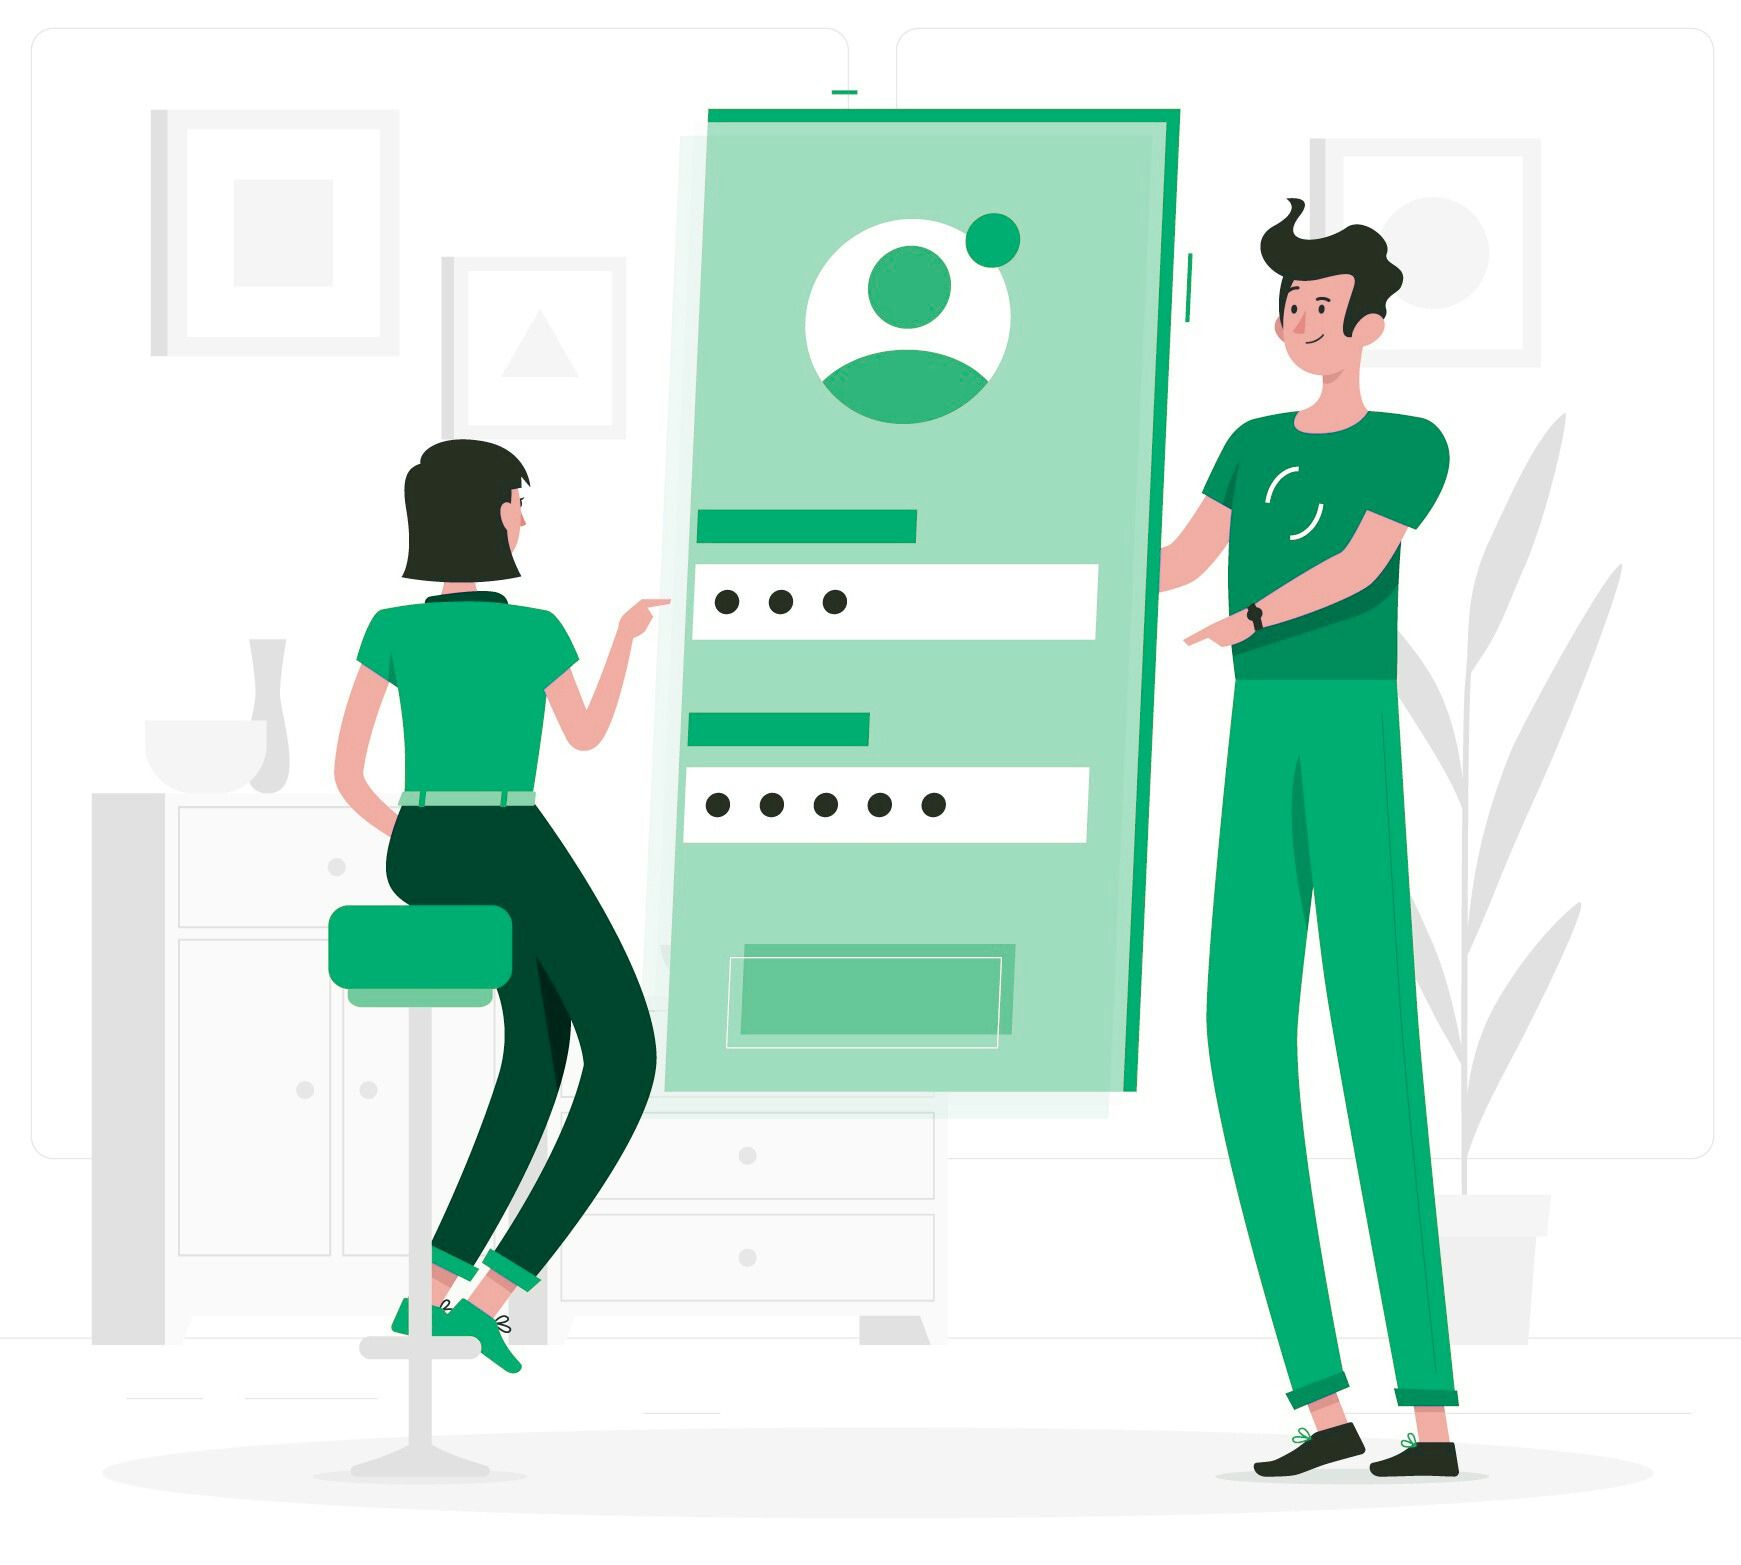
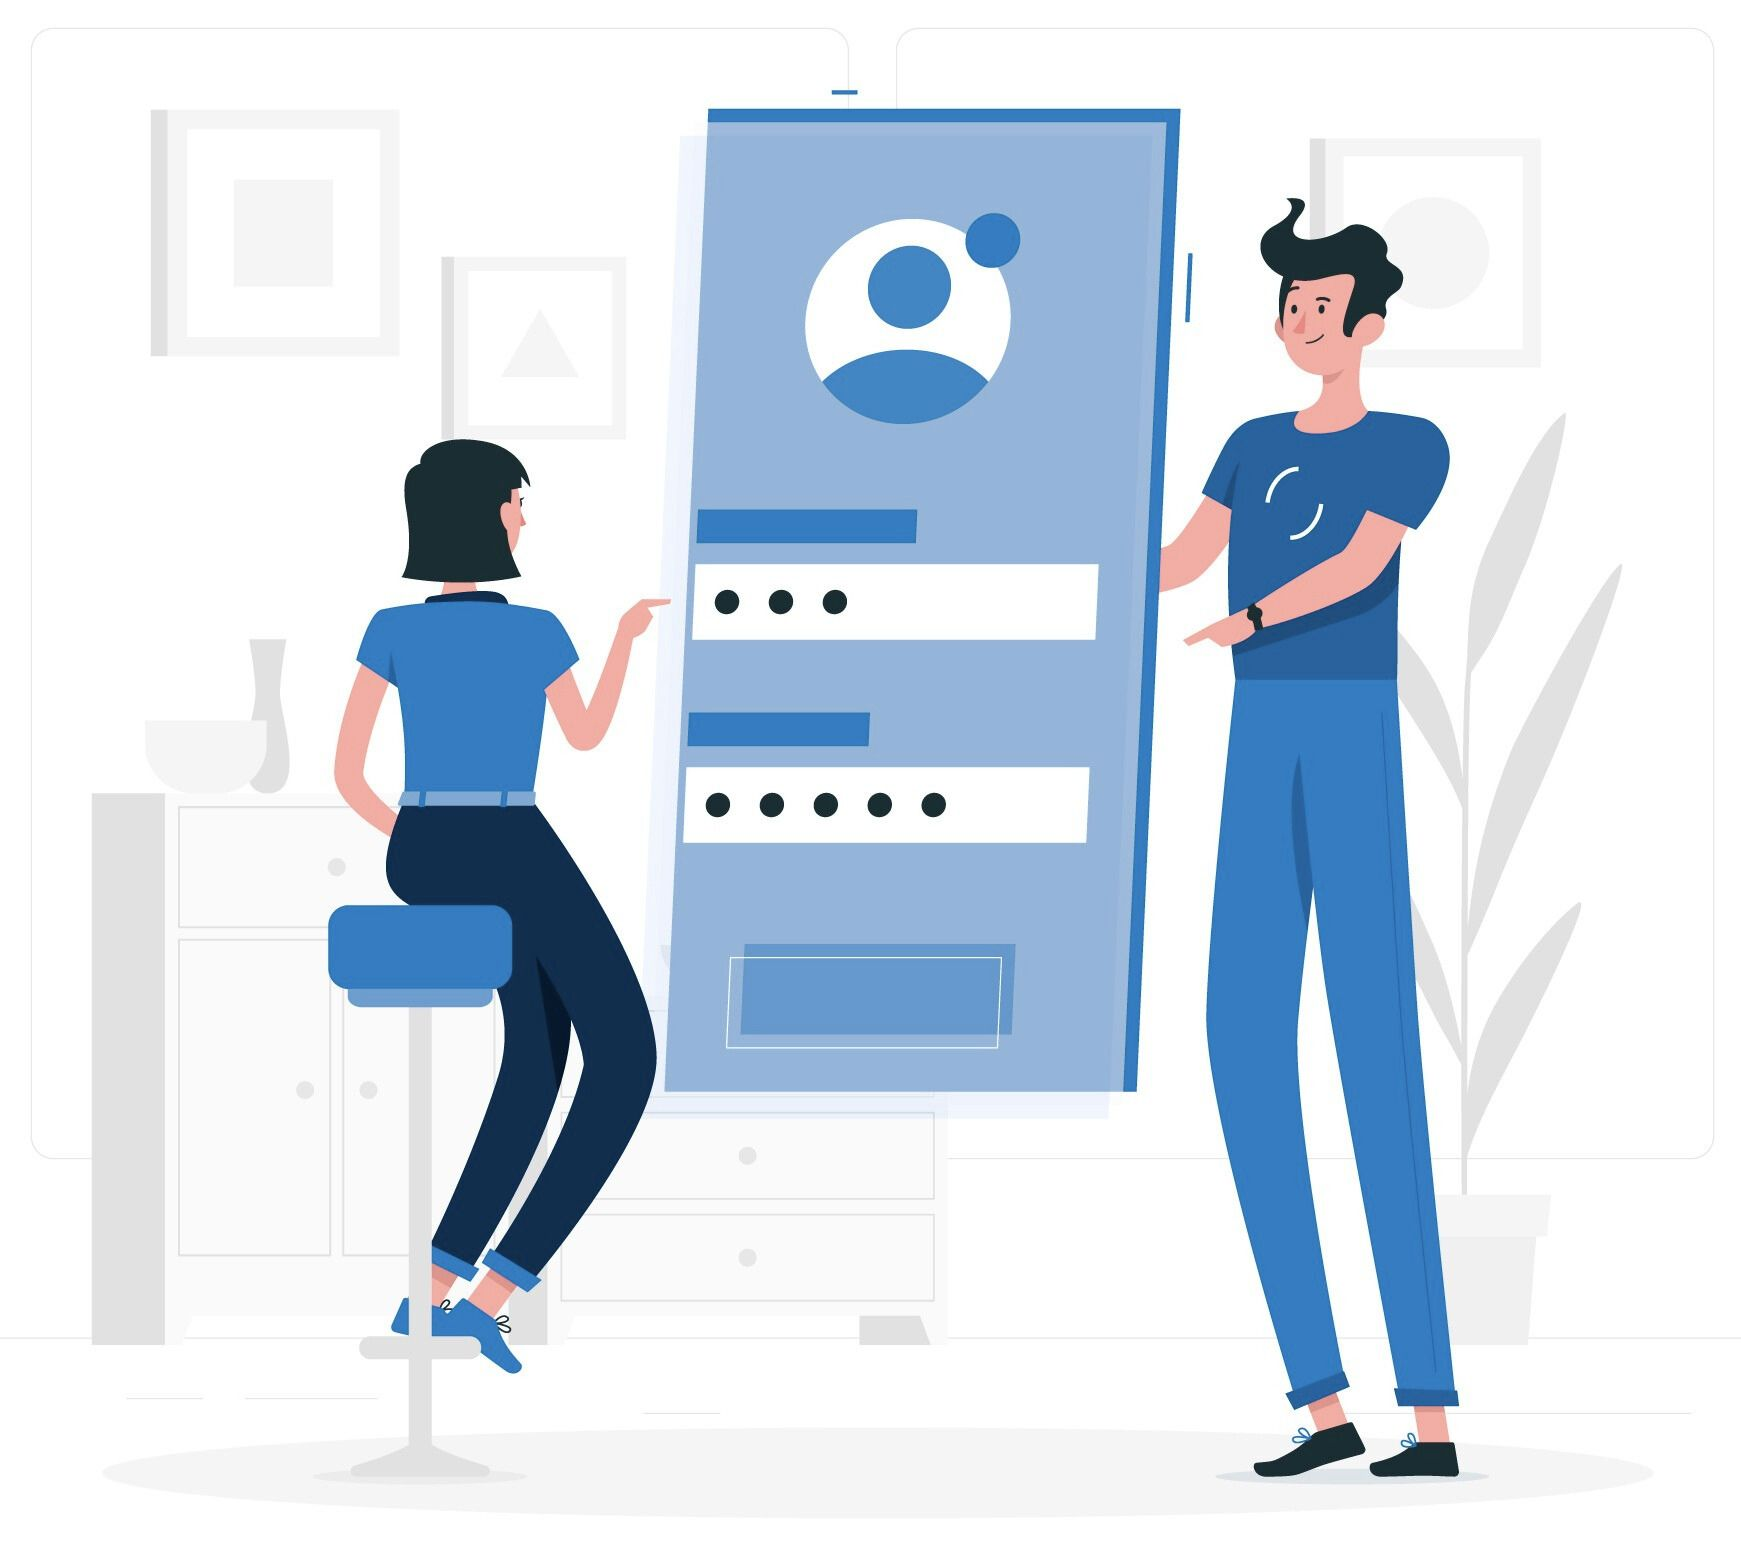
feat: implement new color scheme

Changed region(s): [[0.1861, 0.0613, 0.8374, 0.9201]]

diff --git a/lib/core/constant/colors.dart b/lib/core/constant/colors.dart
@@ -1,9 +1,10 @@
 import 'package:flutter/material.dart';
 
 class AppColors {
-  static const Color backgroundColor = Color(0xFFF9FAFB);
+  static const Color backgroundColor = Color(0xFFF1F5F8);
   static const Color black = Color(0xFF252525);
-  static const Color primaryColor = Color(0xFF10B981);
+  static const Color primaryColor = Color(0xFF0066ae);
+  static const Color cardColor = Color(0xFFFFFFFF);
   static const Color errorColor = Color(0xFFEF4444);
   static const Color warningColor = Color(0xFFFBBF24);
   static const Color successColor = Color(0xFF14B8A6);

diff --git a/lib/common/widgets/notification_tile.dart b/lib/common/widgets/notification_tile.dart
@@ -25,7 +25,7 @@ class NotificationTile extends StatelessWidget {
         margin: const EdgeInsets.symmetric(vertical: 6, horizontal: 16),
         padding: const EdgeInsets.all(16),
         decoration: BoxDecoration(
-          color: const Color(0xFFF5F5F5),
+          color: AppColors.cardColor,
           borderRadius: BorderRadius.circular(12),
           boxShadow: const [
             BoxShadow(

diff --git a/lib/core/utils/dialog_utils.dart b/lib/core/utils/dialog_utils.dart
@@ -12,7 +12,7 @@ Future<void> showCustomDialog({
     context: context,
     builder: (context) {
       return AlertDialog(
-        backgroundColor: Colors.white,
+        backgroundColor: AppColors.cardColor,
         icon: Icon(
           iconData,
           color: Colors.red,
